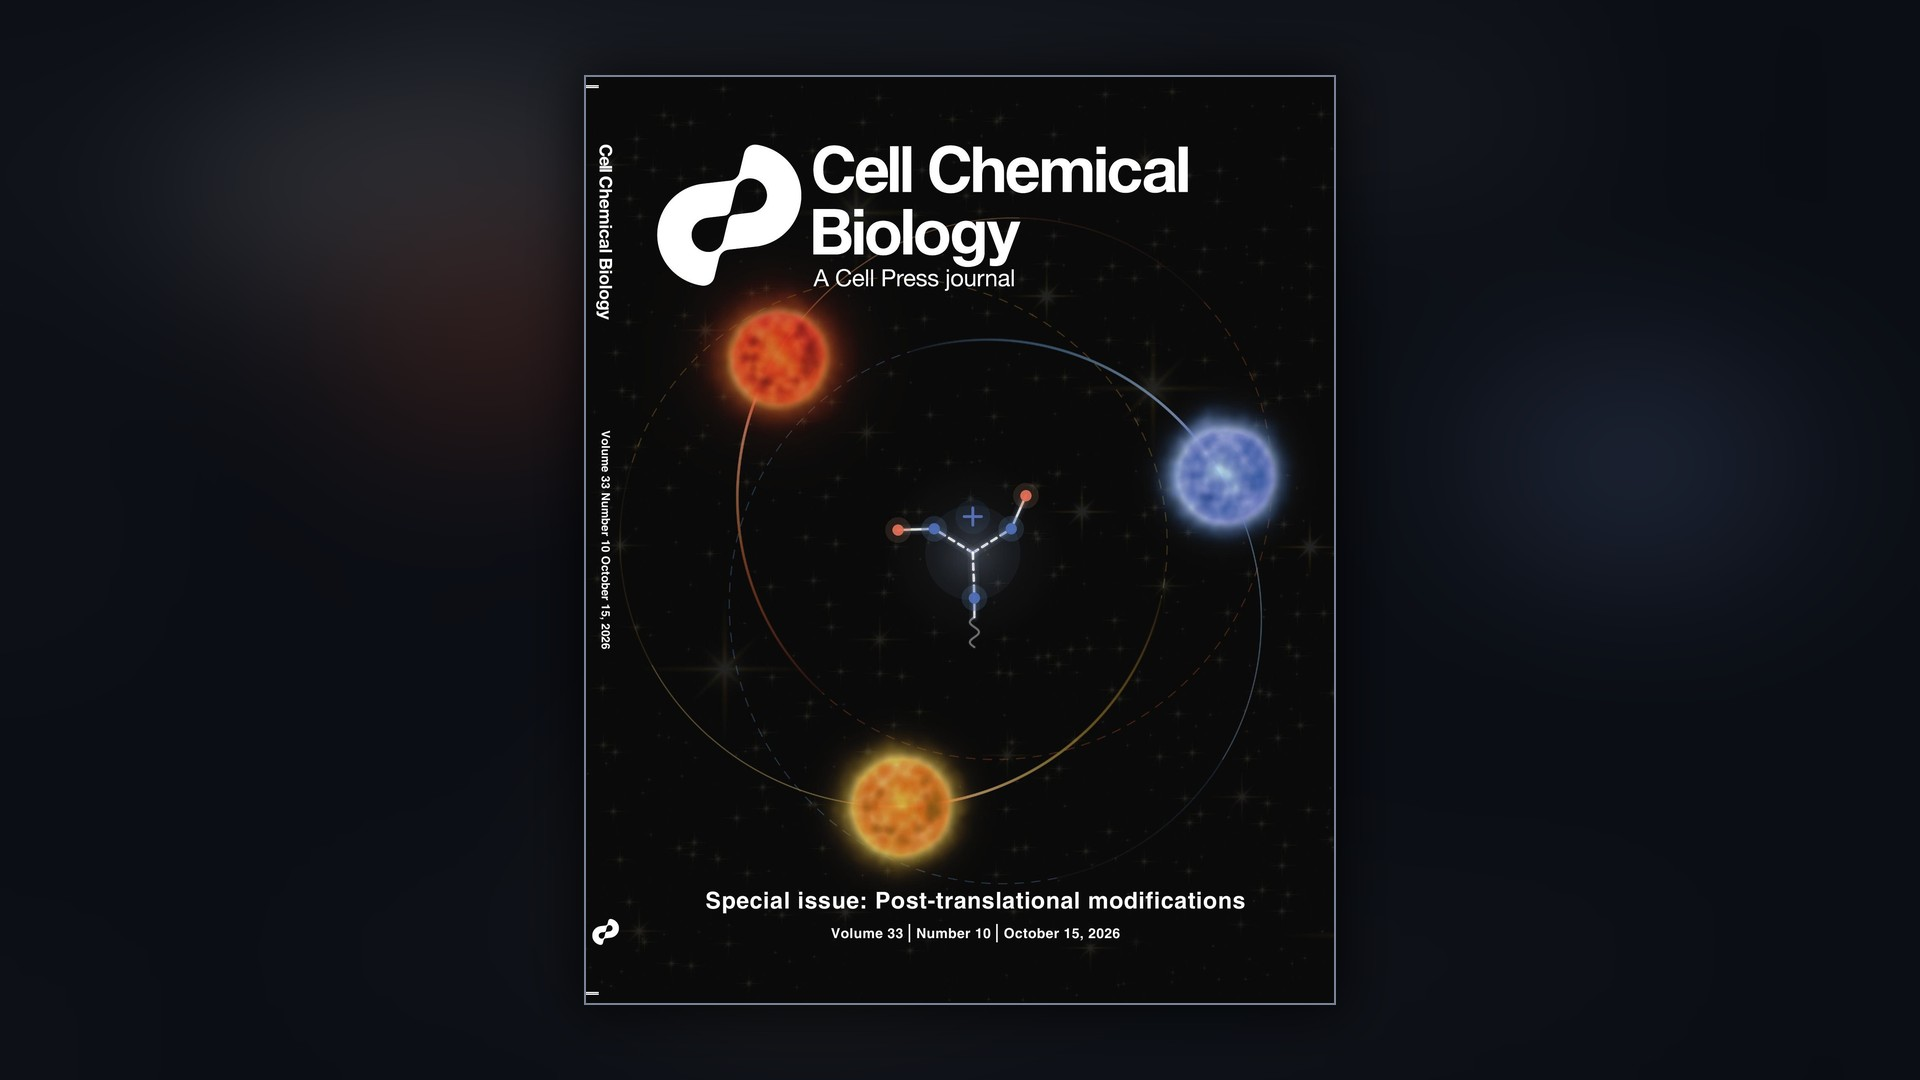
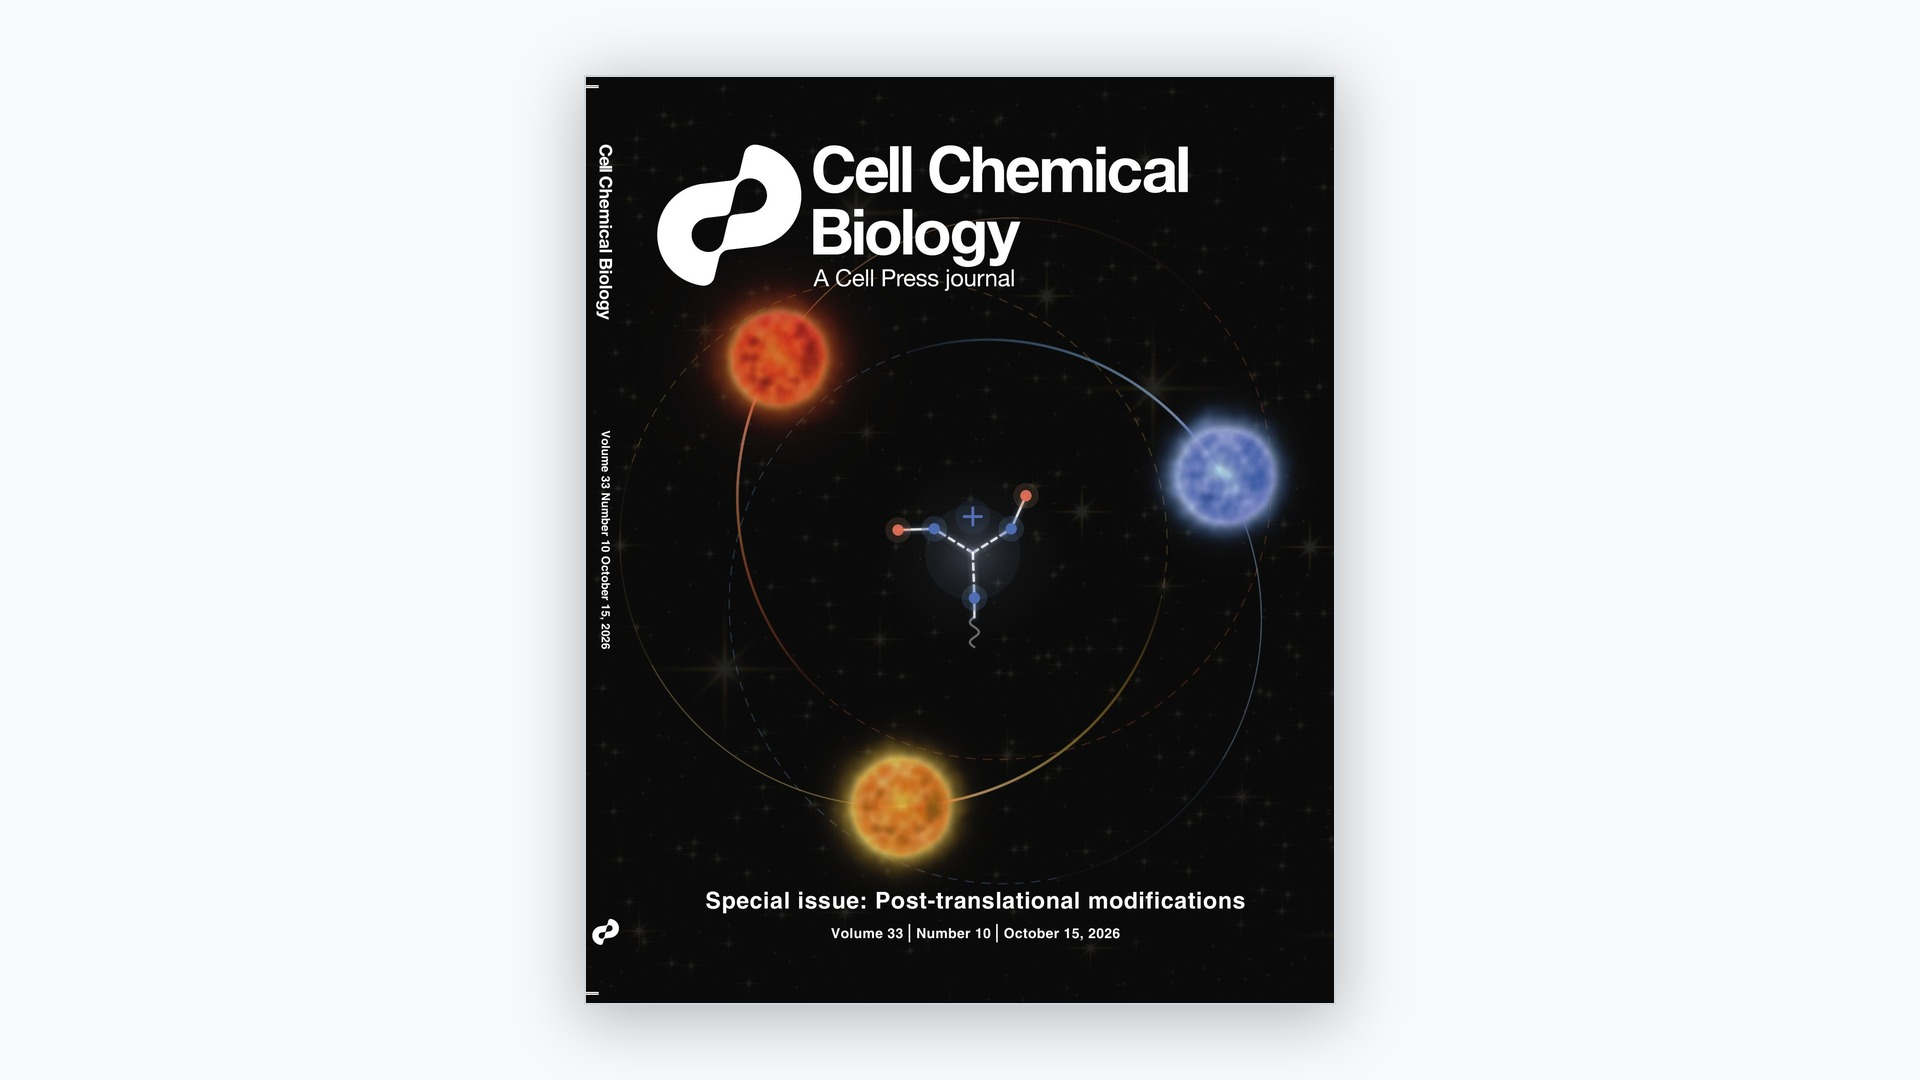
Papers first on Publications; drop read time; lighten the cover card
- Publications order is now Lab Papers, Reviews & Commentary, Preprints,
  Co-authored Work (jump-nav matches). Preprints led the page before, which
  put the least settled work at the top.
- Removed the "N min read" line from paper pages, news pages and cards.
  Every item is short, so it always read "1 min read". The card view had to
  be overridden locally: upstream's `.config.show_read_time | default true`
  cannot be switched off from configuration.
- The Cell Chem Biol cover card sat on a near-black field that merged with
  the cover's own black artwork. Same crop on a light background, matching
  the rest of the site.

Claude-Session: https://claude.ai/code/session_01NuFSWVmeTMhMFaAHazW6f5

diff --git a/layouts/_partials/views/card.html b/layouts/_partials/views/card.html
@@ -1,0 +1,230 @@
+{{/*
+  Local override of Hugo Blox Kit's card view (vendored at the same path).
+
+  The only change from upstream: the "N min read" line is gone. Every news
+  item here is a short paragraph, so the card always said "1 min read" —
+  noise, and it is the first thing the eye lands on next to the date.
+
+  It could not be turned off by configuration. Upstream reads
+  `.config.show_read_time | default true`, and the collection block passes no
+  view config at all, so the value is nil and `default` turns it back on;
+  even an explicit `false` would, since Hugo's `default` treats false as
+  unset. Removing the block is the only way.
+
+  If Hugo Blox changes this template upstream, this override will NOT pick up
+  those changes automatically.
+*/}}
+{{ $item := .item }}
+
+{{ $link := $item.RelPermalink }}
+{{ $target := "" }}
+{{ if $item.Params.external_link }}
+  {{ $link = $item.Params.external_link }}
+  {{ $target = "target=\"_blank\" rel=\"noopener\"" }}
+{{ end }}
+
+{{ $resource := partial "functions/get_featured_image.html" $item }}
+{{ $anchor := "Center" }}
+{{ if and $item.Params.image (reflect.IsMap $item.Params.image) }}
+  {{ $anchor = $item.Params.image.focal_point | default "Center" }}
+{{ end }}
+{{ $fill_image := .config.fill_image | default true }}
+{{ $showDate := .config.show_date | default true }}
+{{/* Read time removed: see the note at the top of this file. */}}
+{{ $showReadMore := .config.show_read_more | default true }}
+{{ $hasMeta := or $showDate $showReadMore }}
+{{ $index := .index }}
+{{ $isEvent := eq $item.Type "events" }}
+{{ $event_dates := "" }}
+{{ if $isEvent }}
+{{ $event_dates = partial "functions/get_event_dates" $item }}
+{{ end }}
+
+<div class="group bg-white/90 dark:bg-zinc-900/90 backdrop-blur-sm rounded-2xl ring-1 ring-zinc-900/5 dark:ring-white/10 shadow-lg overflow-hidden transition-all duration-300 ease-out hover:shadow-xl hover:shadow-primary-500/10 hover:-translate-y-2 focus-within:ring-2 focus-within:ring-primary-500/50" role="article" aria-labelledby="card-title-{{ $item.File.UniqueID }}">
+    <!-- Image Section -->
+    <div class="relative overflow-hidden aspect-[16/9] bg-gradient-to-br from-zinc-100 to-zinc-200 dark:from-zinc-800 dark:to-zinc-900">
+      {{ with $item.Params.content_meta }}
+        {{ if .trending }}
+          <div class="absolute top-3 right-3 z-10 inline-flex items-center gap-1 px-2.5 py-1 rounded-full text-[11px] font-semibold bg-black/55 backdrop-blur-sm text-white shadow-sm">
+            <span>{{ i18n "trending" | default "Trending" }}</span>
+            <span aria-hidden="true">🔥</span>
+          </div>
+        {{ end }}
+      {{ end }}
+      {{ with $resource }}
+        {{/*
+          Image processing gate:
+          - reflect.IsImageResourceProcessable → false for SVG (not processable by Hugo).
+          - GIF: processable by Hugo but we skip to preserve animation frames.
+        */}}
+        {{ $canProcess := and (reflect.IsImageResourceProcessable .) (ne .MediaType.SubType "gif") }}
+        {{ if not $canProcess }}
+          <a href="{{ $link }}" {{ $target | safeHTMLAttr }} class="block">
+            <img class="w-full h-full transition-transform duration-500 ease-out group-hover:scale-105 {{ if $fill_image }}object-fill{{ else }}object-contain{{ end }}"
+                 src="{{ .RelPermalink }}"
+                 loading="lazy"
+                 decoding="async"
+                 {{ if eq $index 0 }}fetchpriority="high"{{ end }}
+                 style="position: absolute; height: 100%; width: 100%; inset: 0px; color: transparent;"
+                 alt="{{ $item.Title | plainify }} featured image">
+          </a>
+        {{ else }}
+          {{ $original_image := "" }}
+          {{ if $fill_image }}
+            {{ $original_image = .Fill (printf "800x450 %s" $anchor) }}
+          {{ else }}
+            {{ $original_image = .Fit (printf "800x450 %s" $anchor) }}
+          {{ end }}
+          {{ $responsive := partial "functions/process_responsive_image.html" (dict 
+              "image" $original_image 
+              "mode" "responsive"
+              "sizes" (slice 400 600 800)
+              "formats" (slice "avif" "webp" "jpg")
+          ) }}
+          <a href="{{ $link }}" {{ $target | safeHTMLAttr }} class="block">
+            <img class="w-full h-full transition-transform duration-500 ease-out group-hover:scale-105 {{ if $fill_image }}object-fill{{ else }}object-contain{{ end }}" 
+                 srcset="{{ $responsive.srcset }}"
+                 sizes="(max-width: 768px) 100vw, (max-width: 1200px) 50vw, 33vw"
+                 src="{{ $responsive.fallback.RelPermalink }}" 
+                 width="{{ $original_image.Width }}" 
+                 height="{{ $original_image.Height }}"
+                 loading="lazy" 
+                 decoding="async"
+                 {{ if eq $index 0 }}fetchpriority="high"{{ end }}
+                 style="position: absolute; height: 100%; width: 100%; inset: 0px; color: transparent;"
+                 alt="{{ $item.Title | plainify }} featured image">
+          </a>
+        {{ end }}
+      {{ else }}
+        <!-- Fallback gradient using theme colors - make clickable for consistency -->
+        <a href="{{ $link }}" {{ $target | safeHTMLAttr }} class="block w-full h-full">
+          <div class="w-full h-full bg-gradient-to-br from-primary-600/40 via-secondary-600/30 to-primary-800/50 flex items-center justify-center transition-all duration-300 group-hover:from-primary-500/50 group-hover:via-secondary-500/40 group-hover:to-primary-700/60">
+            <div class="w-16 h-16 rounded-full bg-white/20 backdrop-blur-sm flex items-center justify-center group-hover:scale-110 transition-transform duration-300">
+              <svg class="w-8 h-8 text-white/40" fill="currentColor" viewBox="0 0 20 20">
+                <path fill-rule="evenodd" d="M4 3a2 2 0 00-2 2v10a2 2 0 002 2h12a2 2 0 002-2V5a2 2 0 00-2-2H4zm12 12H4l4-8 3 6 2-4 3 6z" clip-rule="evenodd"/>
+              </svg>
+            </div>
+          </div>
+        </a>
+      {{end}}
+      
+      <!-- Subtle overlay for better text contrast (allow clicks to pass through) -->
+      <div class="absolute inset-0 pointer-events-none bg-gradient-to-t from-black/10 via-transparent to-transparent opacity-0 group-hover:opacity-100 transition-opacity duration-300"></div>
+    </div>
+
+    <!-- Content Section -->
+    <div class="p-8 space-y-4">
+      {{ with $item.Params.content_meta }}
+        {{ if or .content_type .difficulty }}
+        <div class="flex items-center gap-x-4">
+          {{ with .content_type }}
+          <span class="inline-flex items-center px-3 py-1 rounded-full text-sm font-medium bg-primary-100 text-primary-800 dark:bg-primary-900/40 dark:text-primary-300">
+            {{ . }}
+          </span>
+          {{ end }}
+          {{ with .difficulty }}
+          <span class="text-sm font-medium text-zinc-600 dark:text-zinc-400">{{ i18n "difficulty" }}: {{ . }}</span>
+          {{ end }}
+        </div>
+        {{ end }}
+      {{ end }}
+
+      {{ if and $item.Params.tags (gt (len $item.Params.tags) 0) }}
+      <div class="flex items-center gap-2">
+        {{ with index ($item.GetTerms "tags") 0 }}
+        <a href="{{ .RelPermalink }}">
+          <span class="inline-flex items-center px-3 py-1 rounded-full text-xs font-semibold bg-primary-100 text-primary-800 dark:bg-primary-900/40 dark:text-primary-300">
+            {{ .Page.LinkTitle }}
+          </span>
+        </a>
+        {{ end }}
+      </div>
+      {{ end }}
+
+      <h3 id="card-title-{{ $item.File.UniqueID }}" class="text-xl font-bold tracking-tight text-zinc-900 dark:text-zinc-100 group-hover:text-primary-600 dark:group-hover:text-primary-400 transition-colors duration-200 leading-tight">
+        <a href="{{ $link }}" {{ $target | safeHTMLAttr }} class="hover:underline">
+          {{ $item.Title }}
+          {{ if $item.Params.external_link }}
+            {{ partial "functions/get_icon" (dict "name" "arrow-top-right-on-square" "attributes" "style=\"height: 1em;\" class=\"inline-flex h-4 w-4 ml-1 align-text-top\"") }}
+          {{ end }}
+        </a>
+      </h3>
+      
+      <p class="text-zinc-600 dark:text-zinc-400 text-base leading-relaxed line-clamp-3">
+        {{ (partial "functions/get_summary" $item) | plainify | htmlUnescape | truncate 180 }}
+      </p>
+
+      {{ with $item.Params.content_meta.prerequisites }}
+        {{ $max := 2 }}
+        {{ $count := len . }}
+        <div class="flex items-center gap-2 pt-1 text-sm text-zinc-600 dark:text-zinc-400">
+          <span class="opacity-80">{{ i18n "prerequisites" }}:</span>
+          {{ range (first $max .) }}
+            <span class="inline-flex items-center px-2 py-0.5 rounded-md text-[11px] font-medium bg-zinc-100 text-zinc-800 dark:bg-zinc-800 dark:text-zinc-300">{{ . }}</span>
+          {{ end }}
+          {{ if gt $count $max }}
+            <span class="text-[11px] opacity-70">+{{ sub $count $max }}</span>
+          {{ end }}
+        </div>
+      {{ end }}
+
+      <!-- Metadata section -->
+      {{ if $hasMeta }}
+      <div class="pt-3 border-t border-zinc-100 dark:border-zinc-800">
+        <div class="flex items-center gap-3 text-xs text-zinc-500 dark:text-zinc-500 flex-wrap mb-3">
+          {{ if $item.Params.authors }}
+          <div class="flex items-center gap-2 min-w-0">
+            {{ $slug := index $item.Params.authors 0 | urlize }}
+            {{ $profile := partial "functions/get_author_profile" $slug }}
+            {{ $avatar := $profile.avatar }}
+            <div class="relative h-6 w-6 flex-shrink-0">
+              {{ if $avatar }}
+                {{ $avatar_48 := $avatar.Process "Fill 48x48 Center webp" }}
+                <img alt="avatar" class="rounded-full object-cover" src="{{$avatar_48.RelPermalink}}" width="24" height="24" loading="lazy" decoding="async" />
+              {{ else }}
+                <div class="w-6 h-6 bg-gray-100 dark:bg-gray-700 rounded-full flex items-center justify-center">
+                  {{ partial "functions/get_icon" (dict "name" "hero/user" "attributes" "class=\"w-4 h-4 text-gray-500 dark:text-gray-400\"") }}
+                </div>
+              {{ end }}
+            </div>
+            <span class="truncate max-w-[9rem] text-sm">{{ $profile.title }}</span>
+          </div>
+          <span class="opacity-40">•</span>
+          {{ end }}
+          {{ if $showDate }}
+            {{ if $isEvent }}
+            <span class="hidden sm:inline whitespace-nowrap">{{ $event_dates }}</span>
+            {{ else }}
+            <time class="hidden sm:inline whitespace-nowrap" datetime="{{ $item.Date.Format "2006-01-02" }}">
+              {{ $item.Date | time.Format (site.Params.hugoblox.locale.date_format | default "Jan 2, 2006") }}
+            </time>
+            {{ end }}
+          {{ end }}
+        </div>
+        
+        <!-- Read More with arrow - properly separated -->
+        {{ if $showReadMore }}
+        <div class="pt-2 border-t border-zinc-200/50 dark:border-zinc-700/50">
+          <a href="{{ $link }}" {{ $target | safeHTMLAttr }} class="inline-flex items-center gap-2 text-primary-600 dark:text-primary-400 hover:text-primary-700 dark:hover:text-primary-300 font-medium text-sm transition-all duration-300 group/link">
+            <span>{{ i18n "read_more" | default "Read more" }}</span>
+            <svg class="w-4 h-4 transition-transform group-hover/link:translate-x-1" fill="none" stroke="currentColor" viewBox="0 0 24 24" aria-hidden="true">
+              <path stroke-linecap="round" stroke-linejoin="round" stroke-width="2" d="M17 8l4 4m0 0l-4 4m4-4H3"/>
+            </svg>
+          </a>
+        </div>
+        {{ end }}
+      </div>
+      {{ end }}
+      
+      <!-- Optional AI metadata -->
+      {{ if $item.Params.ai_insights }}
+        <div class="flex items-center gap-2 pt-2 text-xs text-primary-600 dark:text-primary-400 bg-primary-50 dark:bg-primary-950/30 rounded-lg px-3 py-2">
+          <svg class="w-4 h-4 flex-shrink-0" fill="currentColor" viewBox="0 0 20 20">
+            <path d="M9 12l2 2 4-4m6 2a9 9 0 11-18 0 9 9 0 0118 0z"/>
+          </svg>
+          <span class="font-medium">{{ i18n "ai_insight" }}:</span>
+          <span class="text-zinc-600 dark:text-zinc-400">{{ $item.Params.ai_insights }}</span>
+        </div>
+      {{ end }}
+    </div>
+</div>

diff --git a/layouts/publications/list.html b/layouts/publications/list.html
@@ -51,21 +51,14 @@
   <div class="w-full max-w-4xl px-4">
 
     <nav class="flex flex-wrap justify-center gap-x-5 gap-y-2 mt-6 mb-8 text-base font-medium">
-      {{ if gt (len $preprints) 0 }}<a href="#preprints" class="text-primary-600 dark:text-primary-400 hover:underline">Preprints</a>{{ end }}
       {{ if gt (len $labPapers) 0 }}<a href="#lab-papers" class="text-primary-600 dark:text-primary-400 hover:underline">Lab Papers</a>{{ end }}
       {{ if gt (len $reviews) 0 }}<a href="#reviews-commentary" class="text-primary-600 dark:text-primary-400 hover:underline">Reviews &amp; Commentary</a>{{ end }}
+      {{ if gt (len $preprints) 0 }}<a href="#preprints" class="text-primary-600 dark:text-primary-400 hover:underline">Preprints</a>{{ end }}
       {{ if gt (len $coauthored) 0 }}<a href="#coauthored-work" class="text-primary-600 dark:text-primary-400 hover:underline">Co-authored Work</a>{{ end }}
     </nav>
 
-    {{ if gt (len $preprints) 0 }}
-    <h2 id="preprints" class="text-2xl font-bold text-gray-900 dark:text-white mt-4 mb-4 pb-2 border-b border-gray-200 dark:border-gray-700 scroll-mt-24">Preprints</h2>
-    {{ range $preprints }}
-      {{ partial "functions/render_view" (dict "page" . "item" . "view" "citation") }}
-    {{ end }}
-    {{ end }}
-
     {{ if gt (len $labPapers) 0 }}
-    <h2 id="lab-papers" class="text-2xl font-bold text-gray-900 dark:text-white mt-12 mb-4 pb-2 border-b border-gray-200 dark:border-gray-700 scroll-mt-24">Lab Papers</h2>
+    <h2 id="lab-papers" class="text-2xl font-bold text-gray-900 dark:text-white mt-4 mb-4 pb-2 border-b border-gray-200 dark:border-gray-700 scroll-mt-24">Lab Papers</h2>
     {{ $currentYear := "" }}
     {{ range $labPapers }}
       {{ $year := .Date.Format "2006" }}
@@ -86,6 +79,13 @@
         {{ $currentYear = $year }}
         <h3 class="text-lg font-semibold text-gray-500 dark:text-gray-400 mt-8 mb-3">{{ $year }}</h3>
       {{ end }}
+      {{ partial "functions/render_view" (dict "page" . "item" . "view" "citation") }}
+    {{ end }}
+    {{ end }}
+
+    {{ if gt (len $preprints) 0 }}
+    <h2 id="preprints" class="text-2xl font-bold text-gray-900 dark:text-white mt-12 mb-4 pb-2 border-b border-gray-200 dark:border-gray-700 scroll-mt-24">Preprints</h2>
+    {{ range $preprints }}
       {{ partial "functions/render_view" (dict "page" . "item" . "view" "citation") }}
     {{ end }}
     {{ end }}

diff --git a/layouts/publications/single.html b/layouts/publications/single.html
@@ -156,12 +156,6 @@
               {{- end -}}
             {{ end }}
 
-            {{ if ne .Params.reading_time false }}
-            <span class="mx-1">·</span>
-            <span class="mx-1">
-              {{ .ReadingTime }} {{ i18n "minute_read" }}
-            </span>
-            {{ end }}
             </div>
 
             <div class="mt-3">

diff --git a/layouts/single.html b/layouts/single.html
@@ -151,12 +151,6 @@
           {{- end -}}
         {{ end }}
 
-        {{ if ne .Params.reading_time false }}
-        <span class="mx-1">·</span>
-        <span class="mx-1">
-          {{ .ReadingTime }} {{ i18n "minute_read" }}
-        </span>
-        {{ end }}
         </div>
 
         <div class="mt-3">
